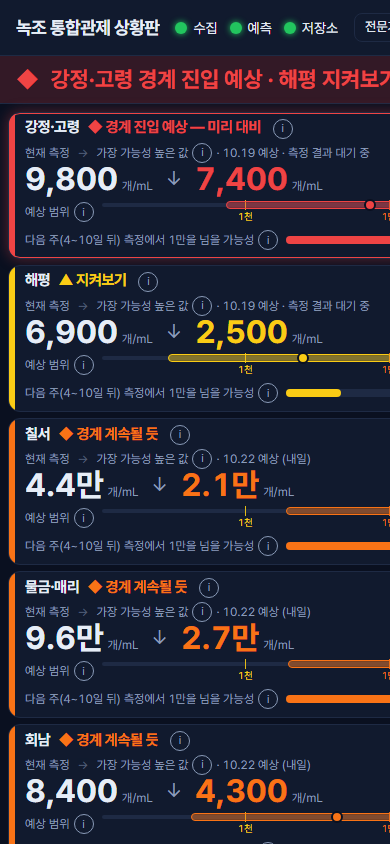
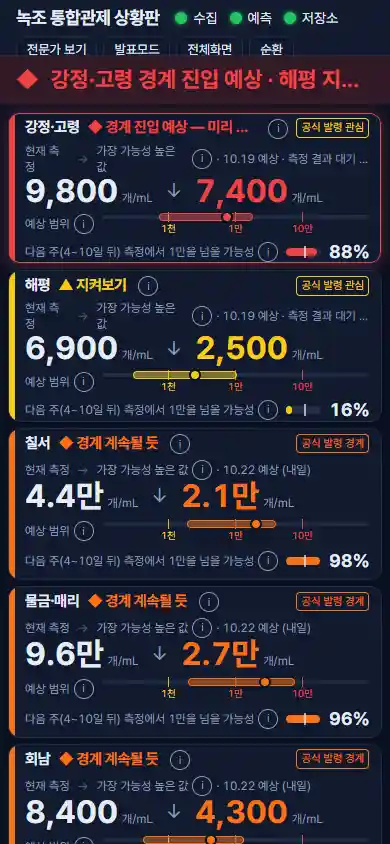
fix(web): 모바일 폭에서 격자 최소 폭 overflow 제거(.board/main 열 minmax(0,1fr), 패널 min-width 0); 390 스크린샷 에뮬레이션 렌더로 교체
Claude-Session: https://claude.ai/code/session_017ddh39e3MD6zytL8k6pS4n

diff --git a/web/src/app/page.tsx b/web/src/app/page.tsx
@@ -73,9 +73,9 @@ export default async function Home({ searchParams }: { searchParams: Promise<Rec
           {BOARD.failBanner(fmtDateTimeKST(anyRun.run_at))}
         </div>
       )}
-      <main className="grid min-h-0 grid-cols-1 gap-2 p-2 lg:grid-cols-[380px_minmax(0,1fr)_440px] 2xl:grid-rows-[minmax(0,1fr)_minmax(0,250px)]">
+      <main className="grid min-h-0 grid-cols-[minmax(0,1fr)] gap-2 p-2 lg:grid-cols-[380px_minmax(0,1fr)_440px] 2xl:grid-rows-[minmax(0,1fr)_minmax(0,250px)]">
         {/* 좌: 지점 현황 */}
-        <section className="order-1 flex min-h-0 flex-col gap-1.5 lg:row-span-1" aria-label={BOARD.panels.sites}>
+        <section className="order-1 flex min-h-0 min-w-0 flex-col gap-1.5 lg:row-span-1" aria-label={BOARD.panels.sites}>
           <h2 className="sr-only">{BOARD.panels.sites}</h2>
           {ranked.map((s, i) => (
             <SiteTile key={s.site_id} s={s} expert={expert} rank={i + 1} today={today} />
@@ -86,12 +86,12 @@ export default async function Home({ searchParams }: { searchParams: Promise<Rec
           <ControlMap sites={mapSites} expert={expert} />
         </section>
         {/* 우: 오늘의 조치 + 실시간 상황 기록 */}
-        <div className="order-2 grid min-h-0 gap-2 lg:order-3 2xl:grid-rows-[minmax(0,60%)_minmax(0,1fr)]">
+        <div className="order-2 grid min-h-0 min-w-0 gap-2 lg:order-3 2xl:grid-rows-[minmax(0,60%)_minmax(0,1fr)]">
           <Actions groups={actions} />
           <EventLog items={logItems} expert={expert} />
         </div>
         {/* 하: 지점 모니터 5분할 + 날씨 */}
-        <section className="order-4 grid min-h-0 grid-cols-2 gap-2 md:grid-cols-5 lg:col-span-2" aria-label={BOARD.panels.monitors}>
+        <section className="order-4 grid min-h-0 min-w-0 grid-cols-[repeat(2,minmax(0,1fr))] gap-2 md:grid-cols-[repeat(5,minmax(0,1fr))] lg:col-span-2" aria-label={BOARD.panels.monitors}>
           <h2 className="sr-only">{BOARD.panels.monitors}</h2>
           {ranked.map((s) => (
             <MiniChart key={s.site_id} s={s} obs={obs.filter((o) => o.site_id === s.site_id)} expert={expert} today={today} />

diff --git a/web/src/app/globals.css b/web/src/app/globals.css
@@ -175,6 +175,7 @@ a {
 /* 메인 상황판: 1920×1080(이상)에서는 한 화면에 맞춤(스크롤 없음), 더 작은 화면은 자연 높이로 세로 스크롤 */
 .board {
   display: grid;
+  grid-template-columns: minmax(0, 1fr); /* 상단바 등 넓은 항목이 격자 폭을 키우지 않게 */
   grid-template-rows: 56px 48px auto 40px;
 }
 @media (min-width: 1600px) and (min-height: 900px) {
@@ -187,4 +188,10 @@ a {
 .scroll-thin {
   scrollbar-width: thin;
   scrollbar-color: var(--panel-border) transparent;
+}
+/* 좁은 화면에서 격자 항목이 내용 최소 폭으로 늘어나 가로 스크롤이 생기지 않게 */
+.board main > *,
+.board .panel,
+.board li {
+  min-width: 0;
 }

diff --git a/web/src/components/control/EventLog.tsx b/web/src/components/control/EventLog.tsx
@@ -51,7 +51,7 @@ export function EventLog({ items, expert, fit = true }: { items: LogItem[]; expe
                 {it.dateOnly ? fmtDate(it.time) : fmtDateTimeKST(it.time).replace(/\. /g, ".")}
               </time>
               <span className="h-2 w-2 shrink-0 rounded-full" style={{ background: TONE[it.tone] }} aria-hidden />
-              <span className="truncate">
+              <span className="min-w-0 truncate">
                 {it.text}
                 {expert && it.expertNote && <span className="ml-1 text-xs text-dim">{it.expertNote}</span>}
               </span>

diff --git a/reports/screenshots/dod_check.md b/reports/screenshots/dod_check.md
@@ -13,3 +13,5 @@
 | 헤드라인 숫자 대조 | 통과 | `web/scripts/check_numbers.mjs` 22/22 일치 (prebuild) |
 | npm run build 경고 0 | 통과 | `✓ Compiled successfully`, 경고 없음 |
 | Vercel 프로덕션 반영 | 대기 | main 머지 승인 후 배포 |
+
+주: 390×844 메인 스크린샷은 Lighthouse 모바일 에뮬레이션(폭 390) 렌더에서 잘라냈다. Windows 헤드리스 Edge 는 창 최소 폭(약 500px) 때문에 `--window-size=390` 으로는 실제 390px 레이아웃이 나오지 않는다(다른 페이지의 390 캡처는 이 한계로 약 500px 레이아웃이 잘린 상태이며, 모바일 순서 배너→타일→조치→기록→지도→모니터는 `main_390_full.png` 로 확인).
